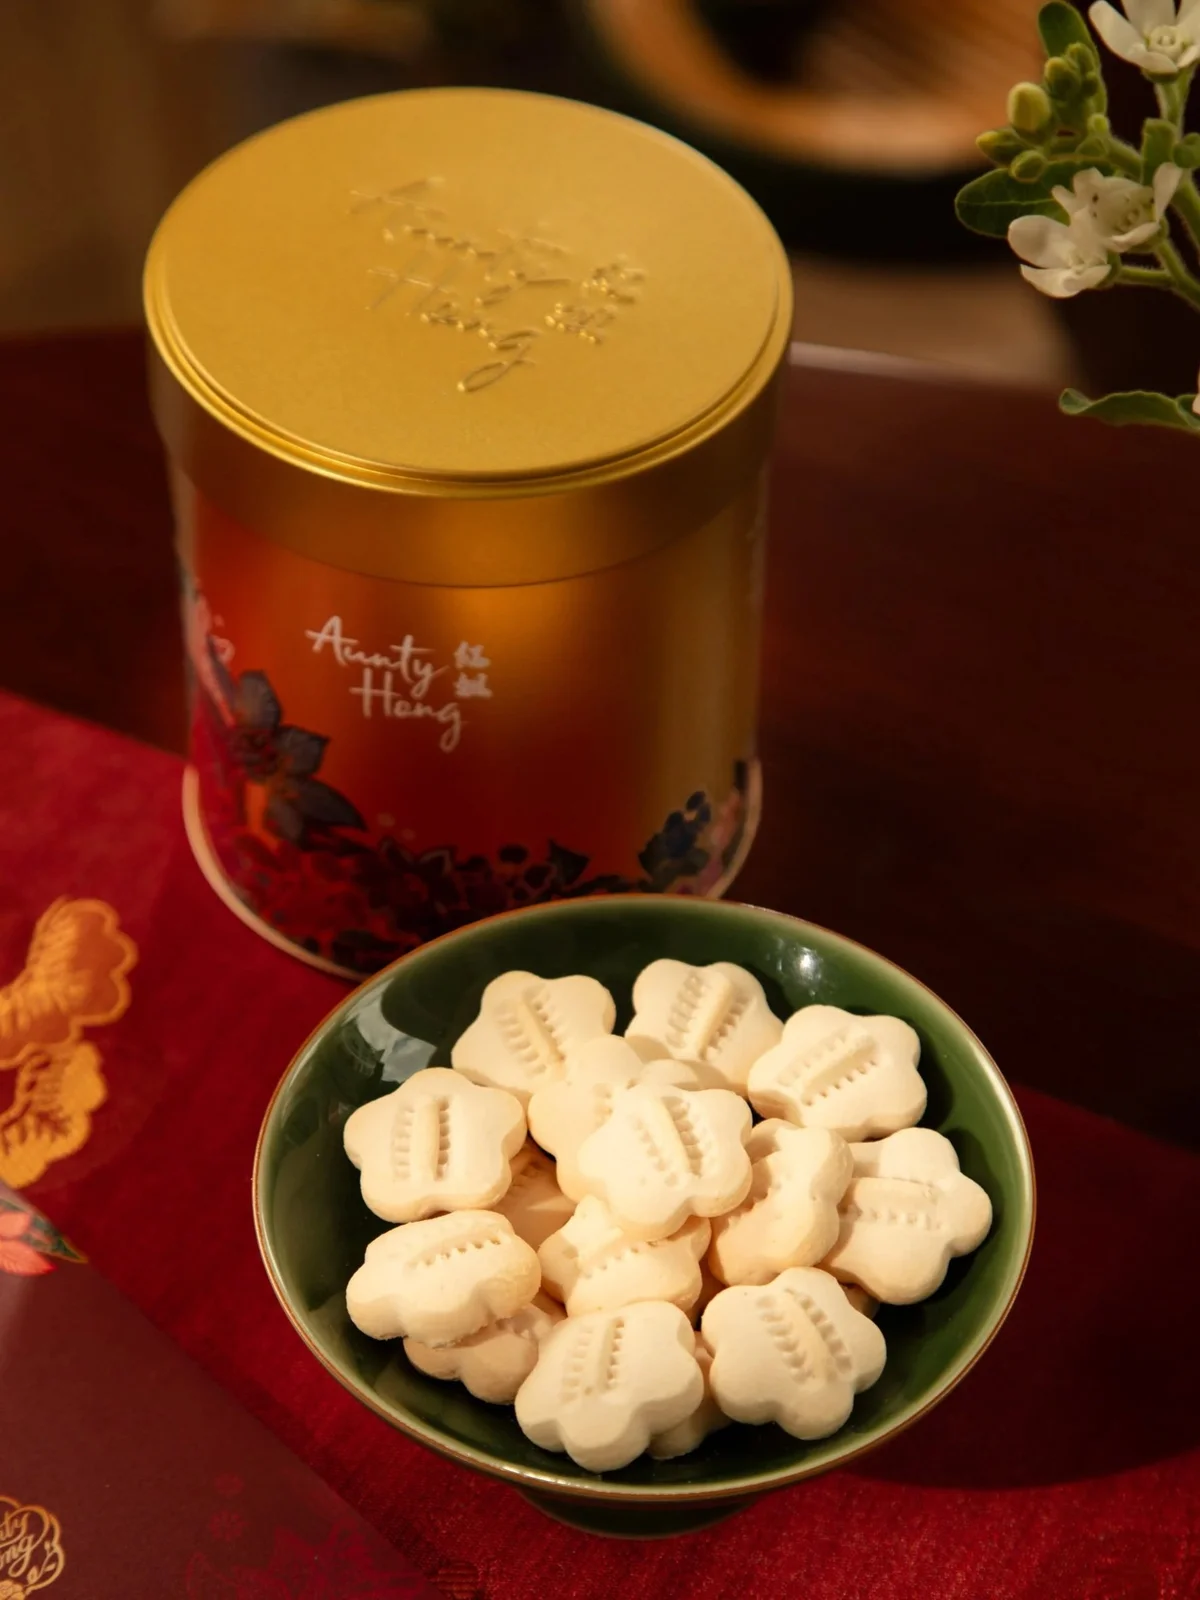
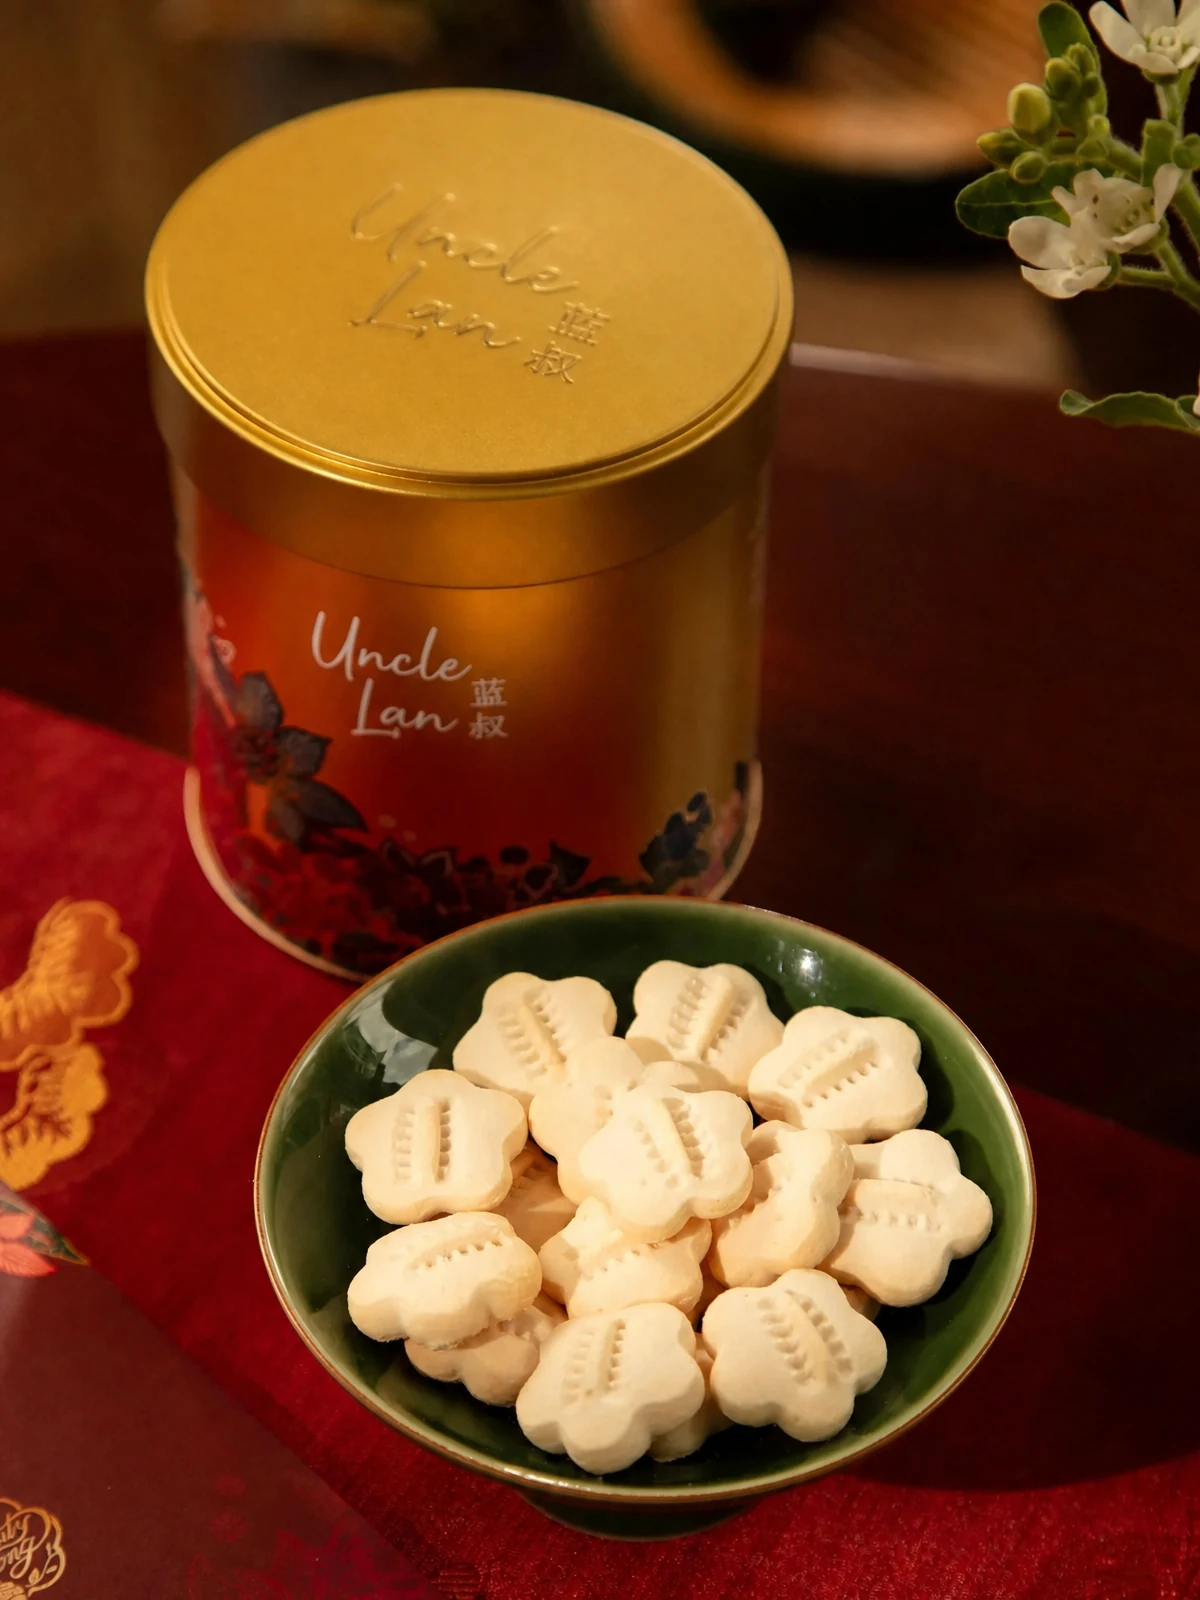
Ship OpenAI Uncle Lan product photos for 23 completed SKUs
Replace public/products webps from openai-batch, point images.json at
local /products paths, and drop CDN overrides for those SKUs. Three
pending SKUs remain on Squarespace until Studio finishes.

diff --git a/lib/catalog.ts b/lib/catalog.ts
@@ -41,16 +41,9 @@ export type ProductWrite = Partial<Product> & {
 };
 
 const IMAGE_OVERRIDES: Record<string, string> = {
-  "shrimp-fries":
-    "https://images.squarespace-cdn.com/content/v1/5fd98b8d82917438944c7944/1609214836429-1JMGD3QPI6YG0STATGX3/1.+Shrimp+Fries.png",
+  // Pending OpenAI batch SKUs still on Squarespace until Studio delivers.
   "tom-yum-goong-cashews":
     "https://images.squarespace-cdn.com/content/v1/5fd98b8d82917438944c7944/1665729590039-MTTGORAKZP5T1MZAY5EM/_5D_7256-Edit.jpg",
-  "the-prosperity-mix":
-    "https://images.squarespace-cdn.com/content/v1/5fd98b8d82917438944c7944/1665979008283-IMZCX13TDQHB1XXJ7S7V/_5D_7496-Edit.jpg",
-  "family-pack-organic-handmade-noodles":
-    "https://images.squarespace-cdn.com/content/v1/5fd98b8d82917438944c7944/47525652-2f05-4799-8110-cb71093e3d5c/Aunty+Hong%27s+Organic+Handmade+Noodles+-+Family+Pack+%28Original%29.jpg",
-  "lucky-duo-cookies-giftset":
-    "https://images.squarespace-cdn.com/content/v1/5fd98b8d82917438944c7944/1701063546598-2YJSVOAMNWCQL6ECMVLD/Lucky+Duo_Low+Res.jpg",
 };
 
 const images = imagesJson as { products: Record<string, string>; named: Record<string, string> };
